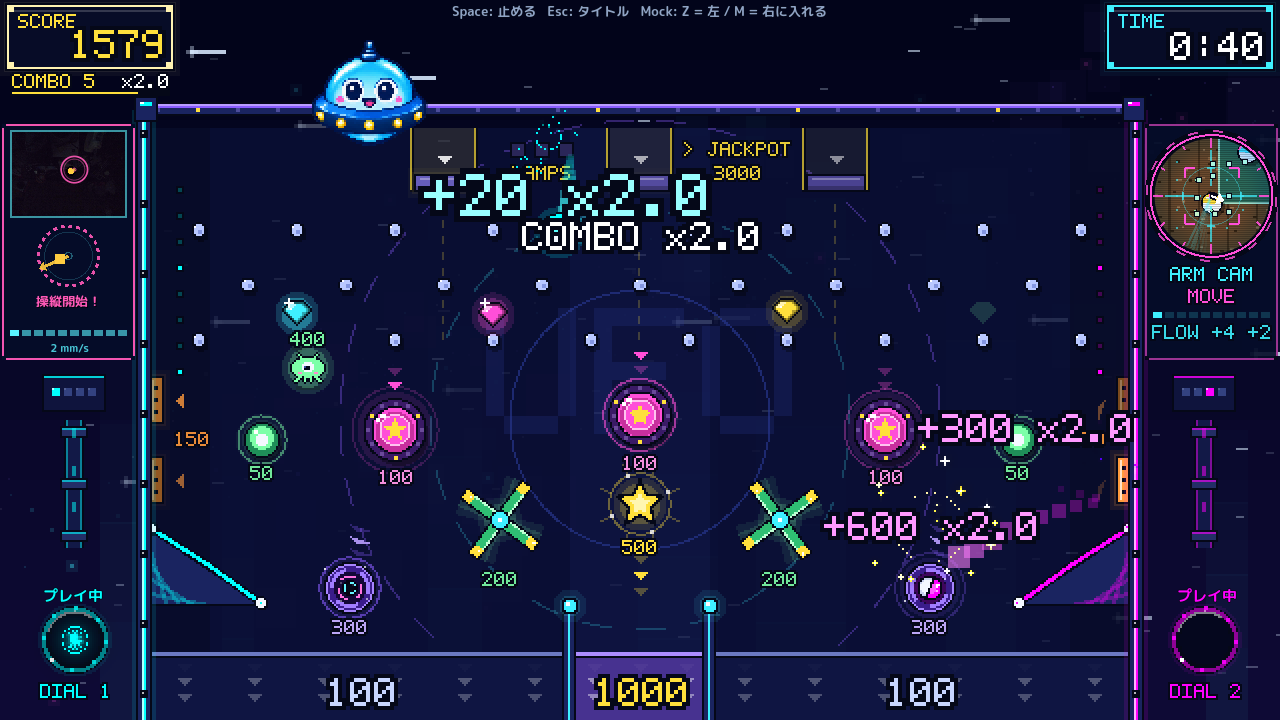
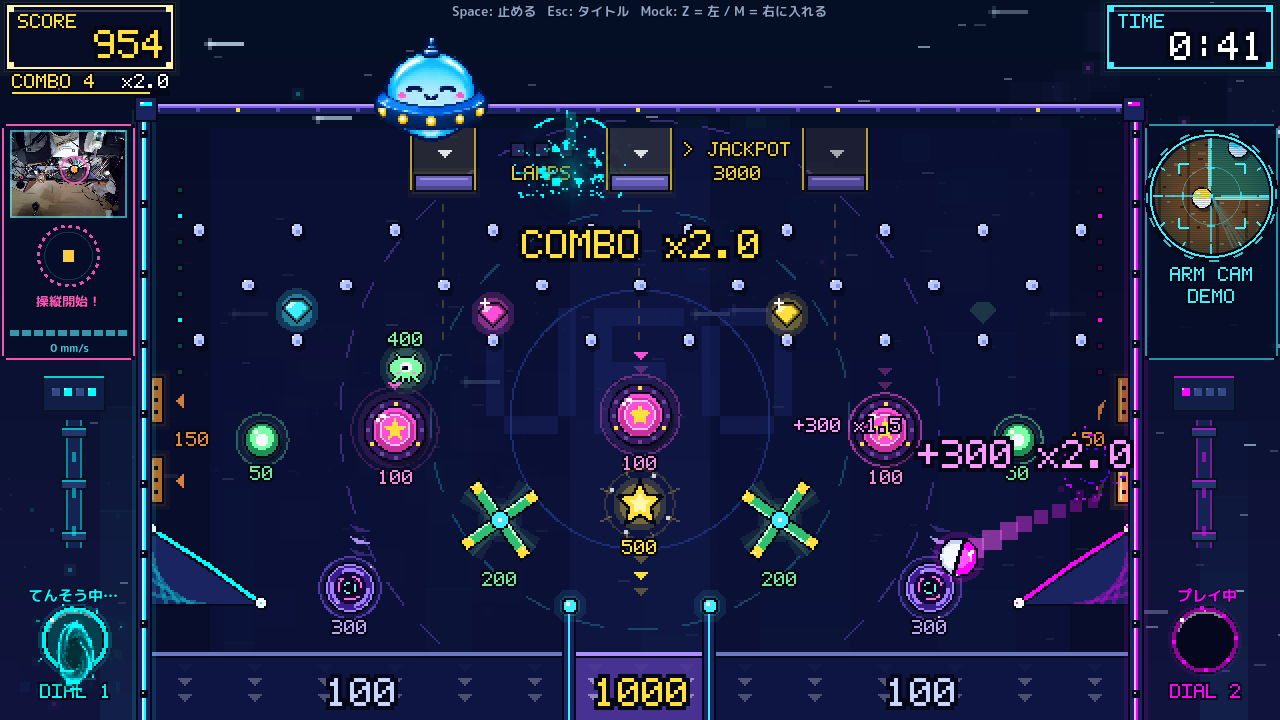
fix: the arm camera scope shows the backend's stabilized picture and says so; the in-game optical flow and its arrows are gone (#141)
The request was the camera shake correction by optical flow, which the backend already
does (#118) and the camera hub already shows as the focus picture. So the scope measures
nothing itself now: no arrows, no sampling. It says which picture it shows - STAB ON (the
brackets close in, with a meter of the shake being cancelled), STAB WAIT, STAB OFF.

diff --git a/docs/test_report.md b/docs/test_report.md
@@ -109,8 +109,8 @@ Godot テスト 46/46、Python 32/32 PASS。追加したテストはいずれも
 
 環境: macOS (Darwin 25.1), Godot 4.7.2。**画面の変更。実機は関係しない**（機器とのやり取り・Dial の状態機械・時計は変えていない）。得点表には新しい対象 6 種（小バンパー 50、壁のターゲット 150、スリングショット 30、宝石 100、宇宙人 400、ワープホール 300）を足し、カプセルを半径 18 px にした。日本語フォント（#134）を取り込んだ。
 
-- Godot 全体 319 件成功（#141 で 17 件追加、#134 のフォント 1 件を取り込み）。追加分: ドット文字、開始待ちのタイトル、Dial の色、品質 `low`、光が自分で消えること、640×360 のキャンバス（UFO と同じドット）、新しい対象の得点・点灯・はじく向き、宝石と宇宙人が 1 回だけ得点して戻ること、ワープホールがカプセルをとどめて打ち上げ 1 個につき 1 回だけであること、HUD の描画領域が画面の大きさであること、オプティカルフロー（動かした絵でその向きと量が出る・止まった絵では出ない・模様のない絵は追わない）、アームカメラのスコープ（カメラなしでは隠れる・動いている間は MOVE・止まると LOCK・盤面や時計やポートに重ならない・閉じると止まる）、得点時の弾み（上限あり・自分で止まる・その間も時計は進む・`effects` オフで止まる）、コンボの表示と消え方、軌跡の上限、残り時間で変わる空、ハンド操作の表示が盤面・ゴール・ポート・得点に重ならないこと、閉じるとキャンバスの描画が止まること。既存のスコアゲームのテスト（得点・物理・Dial の状態機械）は変更なしで成功。
+- Godot 全体 319 件成功（#141 で 17 件追加、#134 のフォント 1 件を取り込み）。追加分: ドット文字、開始待ちのタイトル、Dial の色、品質 `low`、光が自分で消えること、640×360 のキャンバス（UFO と同じドット）、新しい対象の得点・点灯・はじく向き、宝石と宇宙人が 1 回だけ得点して戻ること、ワープホールがカプセルをとどめて打ち上げ 1 個につき 1 回だけであること、HUD の描画領域が画面の大きさであること、アームカメラのスコープ（カメラなしでは隠れる・揺れ補正の映像かどうかの表示・打ち消している揺れの量・盤面や時計やポートに重ならない・閉じると止まる）、得点時の弾み（上限あり・自分で止まる・その間も時計は進む・`effects` オフで止まる）、コンボの表示と消え方、軌跡の上限、残り時間で変わる空、ハンド操作の表示が盤面・ゴール・ポート・得点に重ならないこと、閉じるとキャンバスの描画が止まること。既存のスコアゲームのテスト（得点・物理・Dial の状態機械）は変更なしで成功。
 - 画面: 窓ありで `--game-mode-title --hide-debug` と `--game-mode --game-mode-demo --game-mode-seconds 45 --gesture-demo --hide-debug` を `--capture` して確認（残り 16 秒の版で空の色も確認）。Before / After は `docs/images/game_mode/phase1_*.png`。
-- 性能（キャプチャ中、M4）: プレイ中 平均 66 FPS（スコープとフローの計測込み。なしでは 72〜75）。#141 の前は 98（ドット文字の輪郭と新しいオブジェクトの描画が増えたため）、物理は 1 ステップ約 0.11 ms。
+- 性能（キャプチャ中、M4）: プレイ中 平均 66〜75 FPS（新しいオブジェクト込み）。スコープを足した後の計測は機械に別の負荷がある状態で 51 FPS、スコープを切っても 52 FPS で差はなかった（スコープ自体の負担は測れる大きさではない）。#141 の前は 98（ドット文字の輪郭と新しいオブジェクトの描画が増えたため）、物理は 1 ステップ約 0.11 ms。
 - 見つけて直した不具合: HUD の描画領域の大きさが 0 のままで、画面が揺れた瞬間にスコアと時計のパネルが 1 フレーム消えることがあった（ハンド操作の模擬で毎回再現 → 修正後は 2 回の実行で 0 回）。
-- 未確認: アームカメラのスコープを実物のカメラ映像で見ること（確認は模擬の机の絵。手元のカメラは暗く、模様のない映像では SCAN のままになることだけ確認）、遅い機械での速さ（`visual_quality: low` / `effects: false` を用意）、1280×720 以外の縦横比での見え方、新しい対象を入れた得点表のプレイテスト、実物のカメラ映像を出した状態でのハンド操作の表示（模擬の手で確認）。
+- 未確認: アームカメラのスコープを実物のアームのカメラとバックエンドの揺れ補正の映像で見ること（確認は模擬の机の絵と、状態の判定のテストだけ）、遅い機械での速さ（`visual_quality: low` / `effects: false` を用意）、1280×720 以外の縦横比での見え方、新しい対象を入れた得点表のプレイテスト、実物のカメラ映像を出した状態でのハンド操作の表示（模擬の手で確認）。

diff --git a/README.md b/README.md
@@ -239,7 +239,7 @@ cd CoreXY_UFO_Game/game
 - Dial の側が「係の人を呼んでね」になったら、その Dial は自動では動かさない（排出の失敗・通信の切断など。理由が出る）。排出の完了通知はサーボの動作が終わった合図で、カプセルが実際に出た証明ではない。
 - **実機なしで試す**: `./start.sh --game-only` でタイトルの 3（Dial はゲーム内の模擬。**Z = 左に入れる、M = 右に入れる**）。すぐ始めるなら `./start.sh --game-only -- --game-mode --game-mode-demo`（模擬の Dial に自動でカプセルが入る）。バックエンドの模擬ハブを通すなら `./start.sh --mock --no-gesture -- --devicehub mock`。
 - 実機の Dial を使うには、設定画面の「周辺機器のハブを使う」をオンにして `./start.sh`（テストタブと同じハブ）。ハブにつながらないときは、画面に**理由**が出る（別のシステムのハブ → 設定のシステム番号を合わせる／ポートが見つからない／ポートを開けない／ハブとして応答しない）。テストタブのハブの行にも同じ理由が出る。
-- 得点表・時間・色は `config/game_config.json` の `game_mode`（どれも調整値）。動きの遅い機械では `game_mode.visual_quality` を `low` にすると背景が簡素になる。`game_mode.effects` を `false` にすると、画面の弾み・光の軌跡・呼吸する光を止める。画面の右には、アーム先端のカメラを丸い照準スコープで出し、映像の動き（オプティカルフロー）を矢印で重ねる（`game_mode.scope`。表示だけ）。ラウンドごとのイベントの記録（トレース）は `user://game_mode/trace_<日時>.jsonl`。
+- 得点表・時間・色は `config/game_config.json` の `game_mode`（どれも調整値）。動きの遅い機械では `game_mode.visual_quality` を `low` にすると背景が簡素になる。`game_mode.effects` を `false` にすると、画面の弾み・光の軌跡・呼吸する光を止める。画面の右には、アーム先端のカメラを丸い照準スコープで出す（`game_mode.scope`。バックエンドが揺れ補正の映像を送っている間は、補正済みの映像になる）。ラウンドごとのイベントの記録（トレース）は `user://game_mode/trace_<日時>.jsonl`。
 - Dial の LED は画面のポートと同じ色で、取り込みは画面の方向へ、排出は Dial の方向へ流れる（UFO-DeviceHub の `SET_DIAL_EFFECT` / `SET_DIAL_COLOR`。Hub と Dial のファームウェア 0.3 から。古いファームウェアでは Dial 自身の表示のままで、ゲームは同じに進む）。光は飾りで、失敗してもゲームと排出は止まらない。
 - **実機の Dial・イルミでは未検証**。
 

diff --git a/docs/game_mode_spec.md b/docs/game_mode_spec.md
@@ -92,12 +92,11 @@
 ねらいを定める照準の見た目で、右の柱にアーム先端のカメラを丸く出す（左の柱のハンド操作の表示と対）。
 
 - 円の上に、十字線、30 度ごとの目盛り、回る破線の輪、掃引線、四隅のブラケット。
-- **オプティカルフロー**: 映像がどちらへ動いているかを、5×5 のマスごとの矢印（止まっているマスは点）と、中央からの白い矢印（全体の動き）で描く。矢印の色は速さ（水色 → 黄 → 桃）。
-- 円の下に `ARM CAM`、状態、速さの棒、`FLOW x y`。状態は `MOVE`（動いている。桃色）、`LOCK`（0.6 秒止まっている。ブラケットが閉じて黄色）、`SCAN`（手がかりになる模様がない）。
-- フローはゲームの中で測る（`OpticalFlow`: 映像を 48×48 の白黒にした写しを約 0.1 秒ごとに取り、ブロックの位置合わせで動きを求める）。バックエンドなしでも動く。
-- **表示だけ**。映像もフローも保存せず、どこにも送らず、ロボットの動きや得点の判定に使わない。
-- `--game-mode-demo` では、動いて止まる机の絵がカメラの代わりになる（カメラなしで確認できる）。
-- 設定は `game_mode.scope`（`enabled`、`optical_flow`、`zoom` 1〜4）。
+- 映すのはカメラの窓口（`CameraHub`）の focus の映像。バックエンドが揺れ補正の映像（#118: オプティカルフローで揺れを打ち消したもの。`camera.focus.stabilize`）を送っている間は、**その補正済みの映像**になる。スコープ自身は何も測らない。
+- 円の下に `ARM CAM` と状態: `STAB ON`（補正済みの映像。ブラケットが閉じて黄色。打ち消している揺れの大きさを `SHAKE` の棒で出す）、`STAB WAIT`（補正中だが、いま映像に追える特徴がない）、`STAB OFF`（カメラそのまま。バックエンドなし（`--game-only`）、補正オフ、俯瞰カメラで代用しているとき）。
+- **表示だけ**。映像は保存せず、ロボットの動きや得点の判定に使わない。
+- `--game-mode-demo` では、動いて止まる机の絵がカメラの代わりになる（カメラなしで見た目を確認できる。状態は `DEMO`）。
+- 設定は `game_mode.scope`（`enabled`、`zoom` 1〜4）。
 
 プレイの状況で変わるもの（どれも表示だけ）:
 
